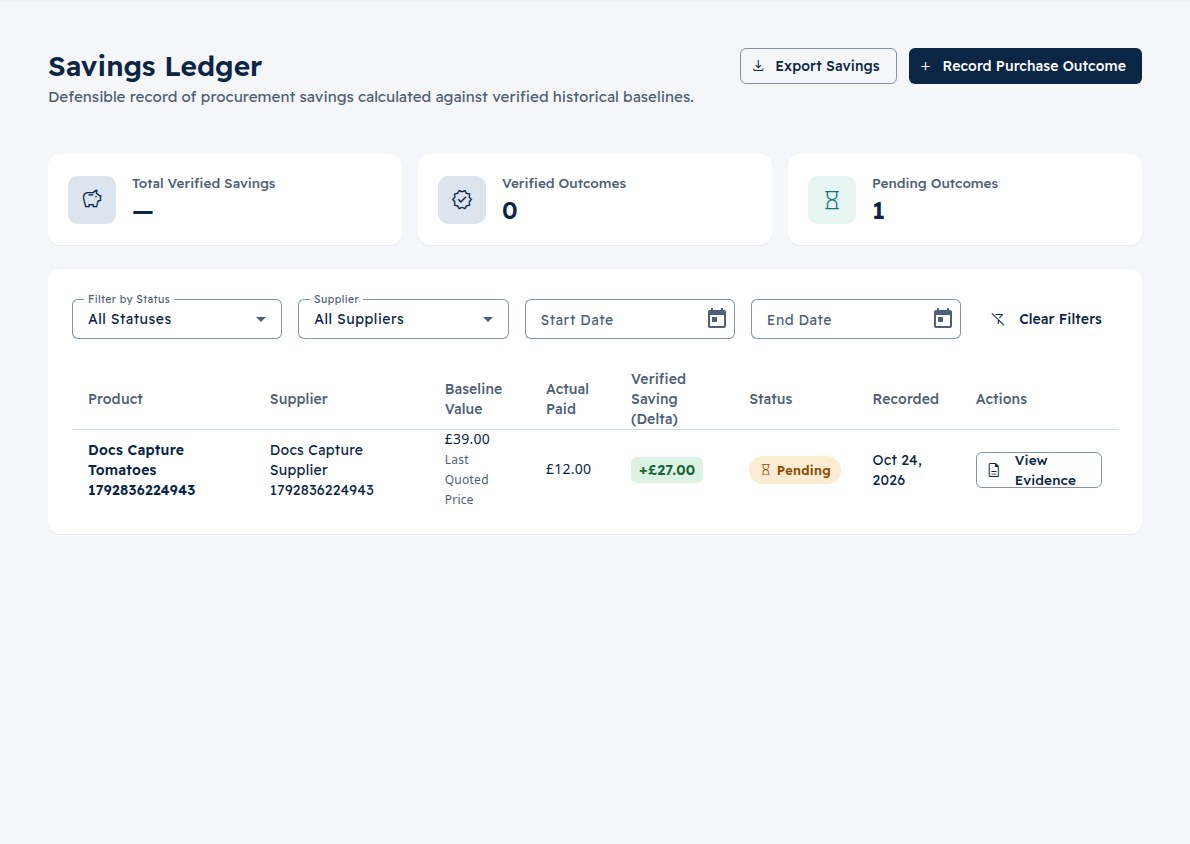
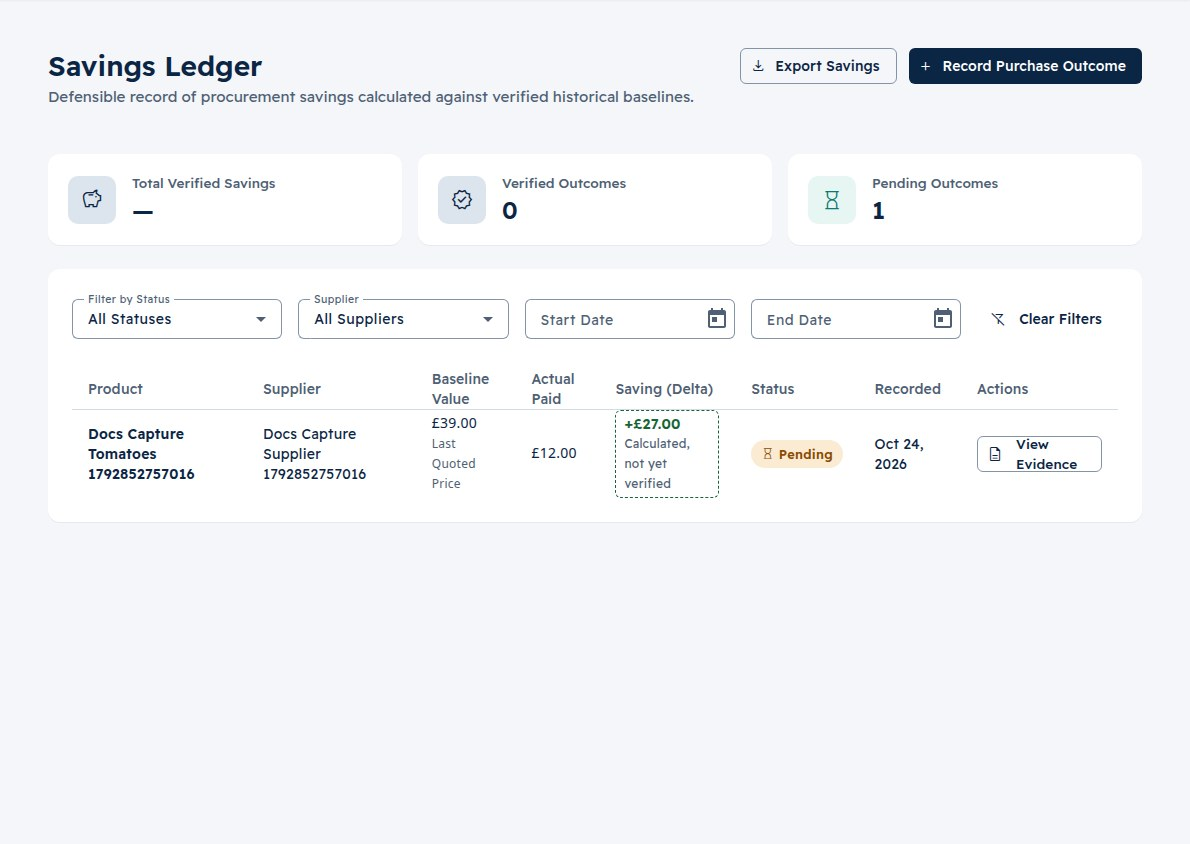
fix(web): savings ledger never labels a pending delta as verified (PPS-44) (#243)
* fix(web): savings ledger never labels a pending delta as verified (PPS-44, P-19)

The /savings table headed every delta "Verified Saving (Delta)", Pending
rows included. Rename the column to "Saving (Delta)" / «الوفر (الفارق)»;
the status chip stays the verification signal. A pending delta is drawn
outlined with "Calculated, not yet verified" beneath it. User docs §16
and the GTM plan updated.

* docs(user): regenerate the savings ledger screenshot (PPS-44)

From the docs-screenshots CI artifact: the only page over the drift
threshold (2.07%), now showing the "Saving (Delta)" column and the
outlined pending delta.

---------

diff --git a/apps/web/src/app/features/savings/savings-ledger/savings-ledger.component.spec.ts b/apps/web/src/app/features/savings/savings-ledger/savings-ledger.component.spec.ts
@@ -120,6 +120,22 @@ describe('SavingsLedgerComponent (T022)', () => {
     expect(component.getPolicyClass('last_po_price')).toBe('policy-last-po');
   });
 
+  it('never labels a pending delta as verified', () => {
+    const el = fixture.nativeElement as HTMLElement;
+    const header = el.querySelector('th.mat-column-delta')?.textContent?.trim();
+    expect(header).toBe('savings.ledger.table.delta');
+
+    const badges = Array.from(el.querySelectorAll<HTMLElement>('[data-testid="saving-delta"]'));
+    expect(badges.length).toBe(2);
+    const [verified, pending] = badges;
+    expect(verified.classList).not.toContain('delta-pending');
+    expect(verified.querySelector('[data-testid="delta-pending-hint"]')).toBeNull();
+    expect(pending.classList).toContain('delta-pending');
+    expect(pending.querySelector('[data-testid="delta-pending-hint"]')?.textContent?.trim()).toBe(
+      'savings.ledger.table.deltaPendingHint',
+    );
+  });
+
   it('should visually differentiate pending vs verified status', () => {
     const verifiedStatus = component.getStatusClass('verified');
     const pendingStatus = component.getStatusClass('pending');

diff --git a/apps/web/src/app/features/savings/savings-ledger/savings-ledger.component.html b/apps/web/src/app/features/savings/savings-ledger/savings-ledger.component.html
@@ -191,8 +191,18 @@
             <th mat-header-cell *matHeaderCellDef>{{ 'savings.ledger.table.delta' | translate }}</th>
             <td mat-cell *matCellDef="let saving" class="delta-cell">
               @if (saving.delta) {
-                <span class="delta-badge" [ngClass]="getDeltaClass(saving.delta)">
+                <span
+                  class="delta-badge"
+                  data-testid="saving-delta"
+                  [ngClass]="getDeltaClass(saving.delta)"
+                  [class.delta-pending]="saving.status !== 'verified'"
+                >
                   {{ isPositive(saving.delta) ? '+' : '' }}{{ saving.delta | formatMoney }}
+                  @if (saving.status !== 'verified') {
+                    <span class="delta-pending-hint" data-testid="delta-pending-hint">{{
+                      'savings.ledger.table.deltaPendingHint' | translate
+                    }}</span>
+                  }
                 </span>
               } @else {
                 <span class="text-muted">—</span>

diff --git a/apps/web/src/app/features/savings/savings-ledger/savings-ledger.component.scss b/apps/web/src/app/features/savings/savings-ledger/savings-ledger.component.scss
@@ -224,6 +224,19 @@
     background-color: var(--pp-surface-sunken);
     color: var(--pp-text-muted);
   }
+
+  // A pending delta is calculated, not verified: outlined instead of filled.
+  &.delta-pending {
+    background-color: transparent;
+    border: 1px dashed currentColor;
+  }
+}
+
+.delta-pending-hint {
+  display: block;
+  font-weight: 400;
+  font-size: 0.75rem;
+  color: var(--pp-text-muted);
 }
 
 .status-pill {

diff --git a/docs/gtm/gtm-execution-plan.md b/docs/gtm/gtm-execution-plan.md
@@ -104,6 +104,7 @@ since the 2026-10-24 move; the old `PP` key is in brackets.
 | P-8 | PPS-25 (PP-28) | P-9 | PPS-17 (PP-29) | J-7 | PPS-30 |
 | P-10 | PPS-32 | P-11 | PPS-33 | P-12 | PPS-34 |
 | P-13 | PPS-38 | P-14 | PPS-35 | P-15 | PPS-36 |
+| P-19 | PPS-44 | | | | |
 
 Without a plan ID: PPS-2 (PP-21), PPS-7 (PP-22), PPS-8 (PP-23), PPS-22 (PP-24), PPS-27 (PP-25),
 PPS-28 (PP-26), PPS-23 (PP-27) — architecture diagrams and two shipped code changes, all Done.
@@ -210,6 +211,7 @@ PR → CI → merge → link PR on the PPS task. Refs are in the GTM plan's curr
 | [ ] P-13 | — | Alerts page took ~48 s on hosted: every alert check opened its own DB connection per product and per supplier (182 per request). One connection per request, price history fetched once per product | Orch | — | Merged and deployed; `/alerts` measured on hosted (PPS-38) |
 | [x] P-14 | — | Guest landing page at `/` (Ledger design): hero, how it works, Sign in, Request pilot access (mailto; sign-up stays invitation-gated), EN / عربي toggle on the landing and sign-in pages, hidden gallery slot; signed-in users still go to `/home` | Orch → Agy | P-11 | PR merged with every required check green on its head commit; driven in a browser in en + ar (PPS-35) — **done 2026-10-24: #240** |
 | [ ] P-15 | — | Rich landing page from the owner-reviewed content (Codex + Agy review): audience-led hero, buyer fit, 4-step workflow, 5-tab en/ar product gallery (MatDialog), evidence section, "Built by Iron Systems" band + iron-sys.com links, pilot invitation with pre-filled email and Q&A. Gallery images captured from the hosted app with one reserved synthetic tenant (`landing-gallery-demo`), never local Supabase | Orch → Agy (UI) + Codex (captures) | P-14 | PR merged with every required check green on its head commit (PPS-36) |
+| [ ] P-19 | — | Savings Ledger labelled every delta "Verified Saving", Pending rows included. Column is now "Saving (Delta)"; a pending delta is outlined with "Calculated, not yet verified" under it; user docs §16 updated | Orch | — | PR merged with every required check green on its head commit (PPS-44) |
 
 ### E — Pilot environment
 

diff --git a/docs/user/user-documentation.md b/docs/user/user-documentation.md
@@ -616,7 +616,7 @@ Reached from **Create Order** on the order list (blank), **From approved request
 | 3 | **+ Record Purchase Outcome button** | Opens the outcome capture form (below) to record a purchase and automatically calculate savings. |
 | 4 | **Stats cards** | Three summary cards: **Total Verified Savings**, **Verified Outcomes** (count), **Pending Outcomes** (count). |
 | 5 | **Filters** | Status (All/Verified/Pending), supplier, and date range. **Clear Filters** resets all. |
-| 6 | **Savings table** | Each row: product, supplier, baseline value (with the baseline policy used beneath it, e.g. "Last PO Price"), actual paid, verified saving (delta), status, and recorded date. Click **View Evidence** to drill into the full calculation. |
+| 6 | **Savings table** | Each row: product, supplier, baseline value (with the baseline policy used beneath it, e.g. "Last PO Price"), actual paid, **Saving (Delta)**, status, and recorded date. The status chip is the verification signal: a Pending row's delta is a calculated saving, shown outlined with "Calculated, not yet verified" beneath it, and only counts toward **Total Verified Savings** once an owner or buyer verifies it. Click **View Evidence** to drill into the full calculation. |
 | 7 | **Empty state** | When no savings exist, "No savings recorded yet" with a **+ Record First Purchase** link. |
 
 ### Record Purchase Outcome
